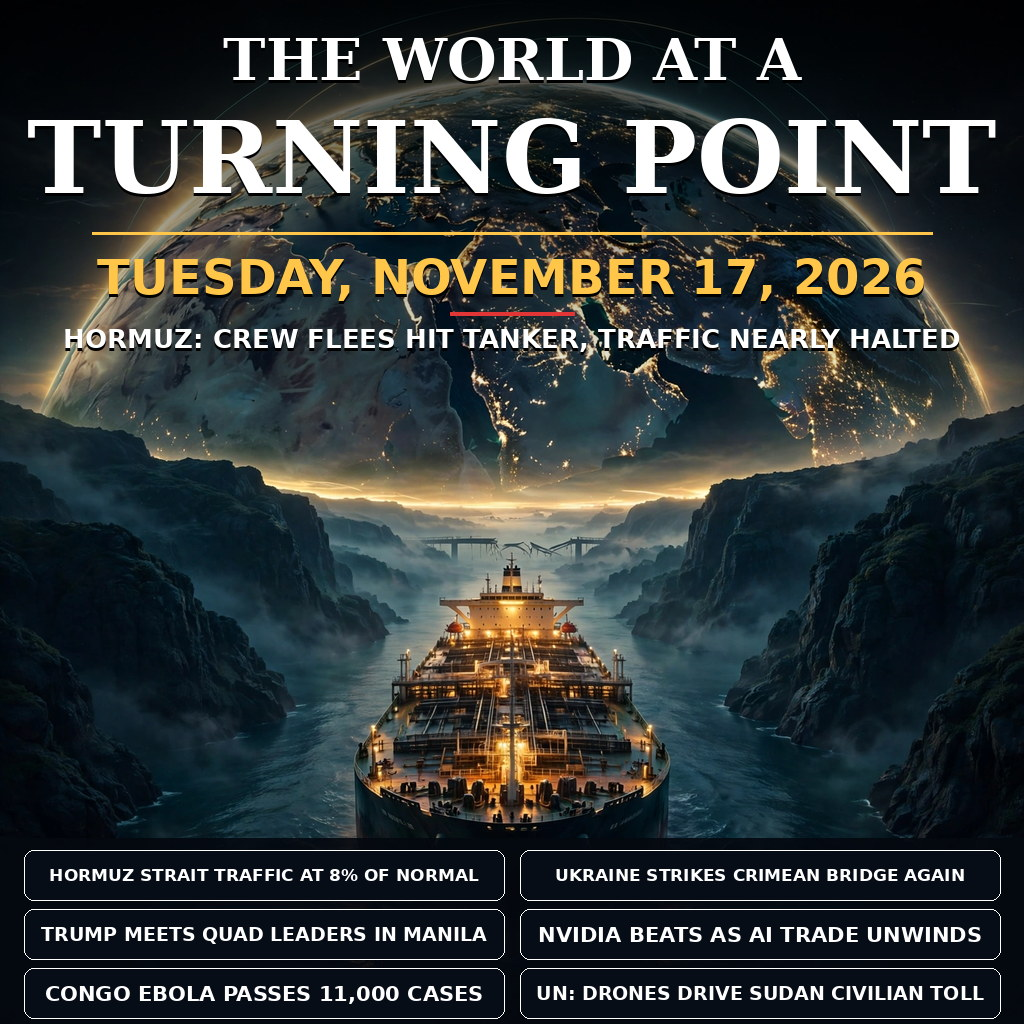
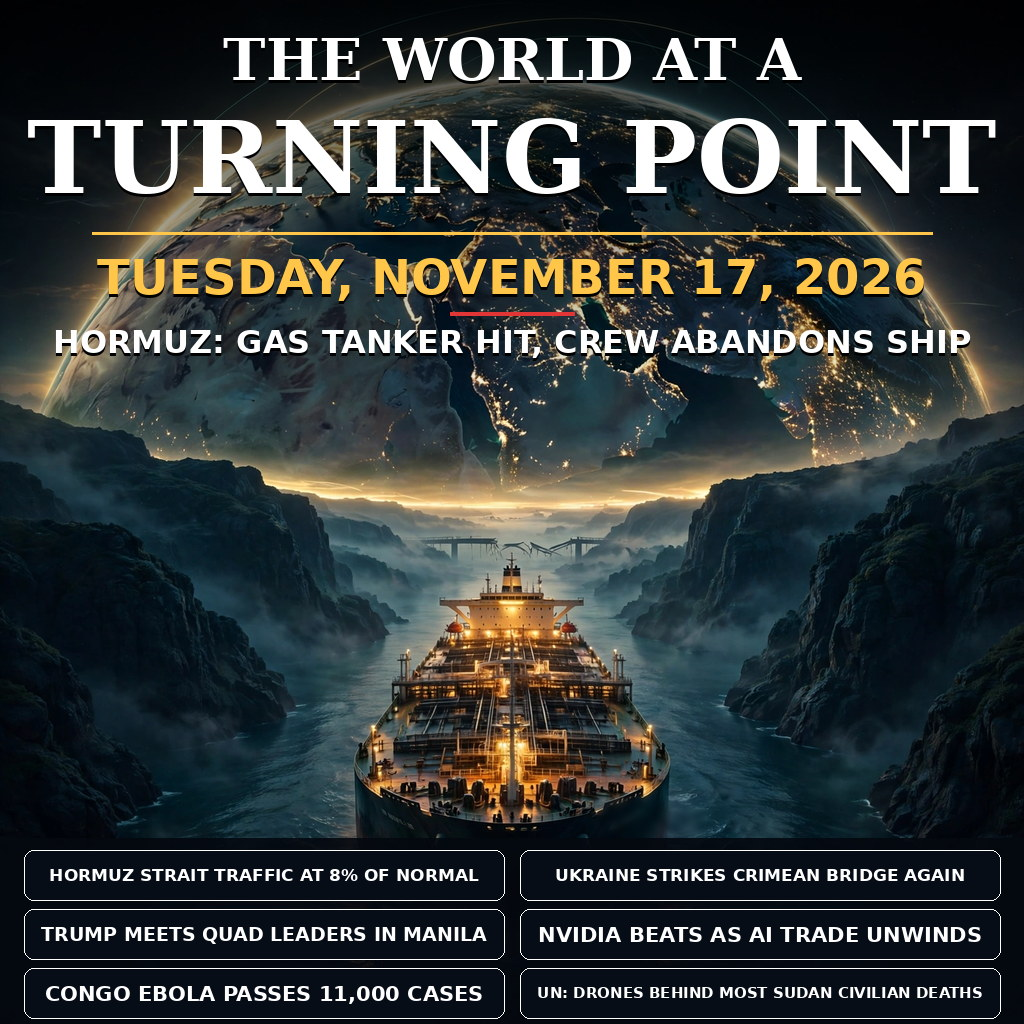
News Image 17 Nov 2026: V4 accuracy - gas tanker wording, Sudan chip, bow cleanup
makefun anchor b5b96b90ab940df1c5eb61c0297573d080e3c210 round 34071532

Changed region(s): [[0.0312, 0.3125, 0.9688, 0.3438], [0.5312, 0.9375, 0.9688, 1.0]]

diff --git a/tools/build_image.py b/tools/build_image.py
@@ -14,7 +14,7 @@ it (V1 base composition, V2 storytelling, V3 readability, V4 accuracy,
 V5 final polish).
 """
 import os
-from PIL import Image, ImageDraw, ImageFont
+from PIL import Image, ImageDraw, ImageFilter, ImageFont
 
 ROOT = os.path.dirname(os.path.dirname(os.path.abspath(__file__)))
 ART = os.path.join(ROOT, "assets", "base-art.png")
@@ -37,7 +37,7 @@ CONFIG = dict(
     masthead2_size=112,
     date_text="TUESDAY, NOVEMBER 17, 2026",
     date_size=48,
-    hero_line="HORMUZ: CREW FLEES HIT TANKER, TRAFFIC NEARLY HALTED",
+    hero_line="HORMUZ: GAS TANKER HIT, CREW ABANDONS SHIP",
     hero_size=40,
     chips=[
         "HORMUZ STRAIT TRAFFIC AT 8% OF NORMAL",
@@ -45,7 +45,7 @@ CONFIG = dict(
         "TRUMP MEETS QUAD LEADERS IN MANILA",
         "NVIDIA BEATS AS AI TRADE UNWINDS",
         "CONGO EBOLA PASSES 11,000 CASES",
-        "UN: DRONES DRIVE SUDAN CIVILIAN TOLL",
+        "UN: DRONES BEHIND MOST SUDAN CIVILIAN DEATHS",
     ],
     chip_size=25,
     band_top=838,
@@ -88,8 +88,24 @@ def centered(draw, cx, y, text, f, fill, shadow=True):
     return w
 
 
+def soften_bow_markings(img):
+    """V4 accuracy pass: the AI base art carries faint pseudo-lettering on
+    the tanker's bow (like a painted ship name). Blur that small patch with
+    a feathered mask so the final image holds no garbled text anywhere."""
+    box = (596, 796, 716, 844)
+    patch = img.crop(box).filter(ImageFilter.GaussianBlur(3))
+    mask = Image.new("L", (box[2] - box[0], box[3] - box[1]), 0)
+    md = ImageDraw.Draw(mask)
+    md.rounded_rectangle([6, 6, box[2] - box[0] - 6, box[3] - box[1] - 6],
+                         radius=14, fill=255)
+    mask = mask.filter(ImageFilter.GaussianBlur(6))
+    img.paste(patch, (box[0], box[1]), mask)
+    return img
+
+
 def build(cfg=CONFIG):
     img = Image.open(ART).convert("RGB").resize((W, H), Image.LANCZOS)
+    img = soften_bow_markings(img)
     img = img.convert("RGBA")
 
     # Scrims: top for the masthead, bottom band for the chips.
